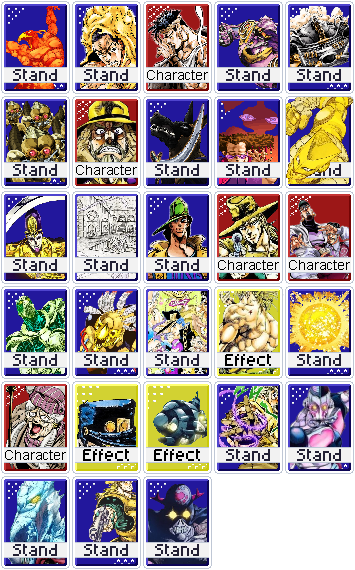
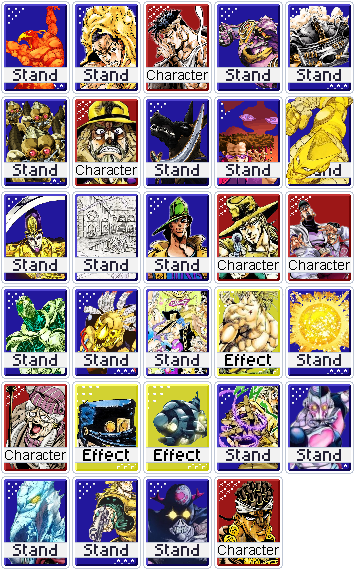
Add Avdol joker

Changed region(s): [[0.5887, 0.8351, 0.8056, 1.0]]

diff --git a/compendium/labels.py b/compendium/labels.py
@@ -57,7 +57,7 @@ LABELS = Labels(
         'extra_jokers': ('Extra jokers', 'George Joestar pays per joker held; these add jokers without using slots.'),
         'duplication': ('Duplication', 'Kiss grows whenever a card is duplicated.'),
         'planet_cards': ('Planet cards', 'Kars counts every different Planet card you use; more and previewable packs help you find new ones.'),
-        'tarot_cards': ('Tarot cards', 'The World counts every different Tarot card you use; more and previewable packs help you find new ones.'),
+        'tarot_cards': ('Tarot cards', 'The World counts every different Tarot card you use; Avdol hands out random ones, and more and previewable packs help you find new ones.'),
         'wheel_of_fortune': ('Wheel of Fortune', 'Make Wheel of Fortune your most-used tarot: Enya keeps it in Arcana Packs and it always triggers.'),
         'booster_packs': ('Booster packs', 'Get more out of Booster Packs: more of them, previews, and free ones, with In a Silent Way growing from each one opened.'),
         'frugal_shopping': ('Frugal shopping', 'Rewarded for leaving the shop without spending.'),
@@ -66,7 +66,7 @@ LABELS = Labels(
         'deck_shrinking': ('Deck shrinking', 'Goo Goo Dolls pays out for a thinner deck; these destroy cards.'),
         'emperor': ('Emperor', "Emperor's huge XMult comes with a chance to end the run; Rolling Stones sets that chance to 0 and Burning Down the House survives it."),
         'consumable_slots': ('Consumable slots', 'Wamuu pays for every empty consumable slot; Coco Jumbo adds a slot and Space Trucking makes held consumables Negative.'),
-        'consumable_room': ('Consumable room', 'Talking Head and Reimi only create consumables when a slot is free; Coco Jumbo adds one.'),
+        'consumable_room': ('Consumable room', 'Talking Head, Reimi and Avdol only create consumables when a slot is free; Coco Jumbo adds one.'),
     },
     similar={
         'card_preview': 'Card preview',

diff --git a/compendium/tests/test_build.py b/compendium/tests/test_build.py
@@ -28,7 +28,7 @@ def test_outputs_exist(site):
 
 
 def test_data_has_every_joker(data):
-    assert len(data["jokers"]) == 166 and data["version"] == "v9.9.9"
+    assert len(data["jokers"]) == 167 and data["version"] == "v9.9.9"
     assert len(data["themes"]) == 57
 
 

diff --git a/compendium/tests/test_lua_env.py b/compendium/tests/test_lua_env.py
@@ -7,7 +7,7 @@ def find(mod, key):
 
 
 def test_loads_every_joker(mod):
-    assert len(mod.jokers) == 166
+    assert len(mod.jokers) == 167
 
 
 def test_order_is_collection_order(mod):

diff --git a/.claude/skills/create-joker/SKILL.md b/.claude/skills/create-joker/SKILL.md
@@ -201,6 +201,22 @@ verification commands. A joker with no real partners gets no fields; don't inven
 `tests/jokers/<same file name>_tests.lua`, in a `--#region <Joker Name>` block placed to
 match the joker list order.
 
+Leave a blank line between the region comments and each `Balatest.TestPlay` body:
+
+```lua
+--#region Kiss
+
+Balatest.TestPlay {
+    ...
+}
+
+Balatest.TestPlay {
+    ...
+}
+
+--#endregion
+```
+
 Never declare helper functions as locals in a test file. Put them in
 `tests/testfunctions.lua` as globals (ex. `free_shop_items(area)`) so other tests can reuse
 them; check that file for an existing helper before writing a new one.
